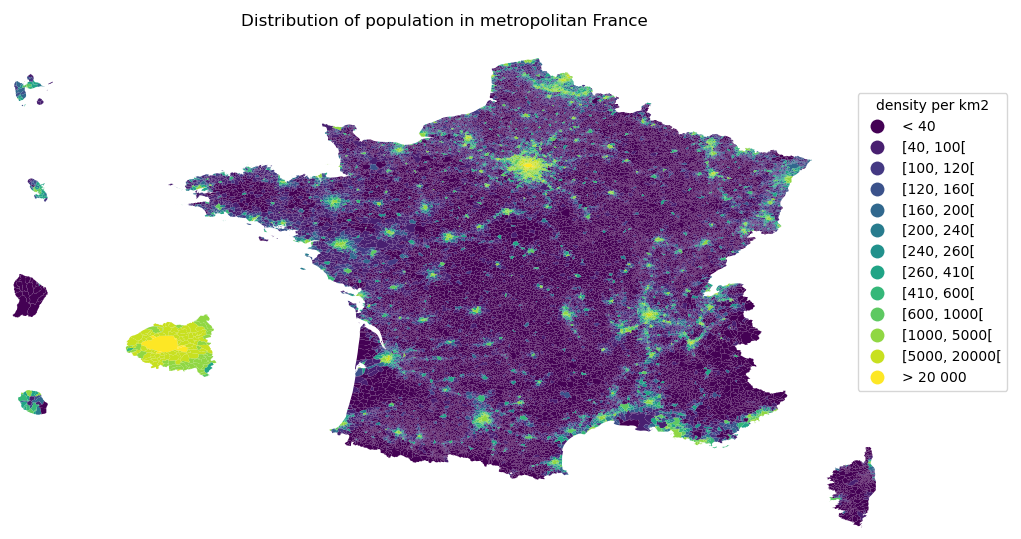
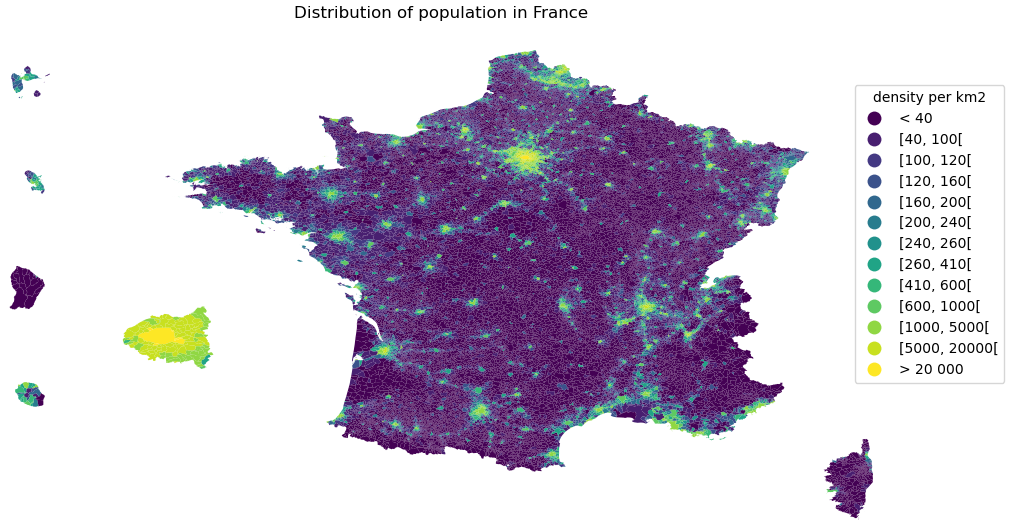
title plot change

diff --git a/examples/population_density_by_commune.py b/examples/population_density_by_commune.py
@@ -34,8 +34,8 @@ d['range'] = d['range'].astype(CategoricalDtype(categories=list_ranges, ordered=
 fig, ax = plt.subplots(1,1,figsize=[10,10])
 d.plot(column='range', cmap=cm.viridis,
     legend=True, ax=ax,
-    legend_kwds={'bbox_to_anchor': (1.1, 0.8),
+    legend_kwds={'bbox_to_anchor': (1.1, 0.9),
                  'title':'density per km2'})
 ax.set_axis_off()
-ax.set(title='Distribution of population in metropolitan France')
+ax.set(title='Distribution of population in France')
 plt.show()
